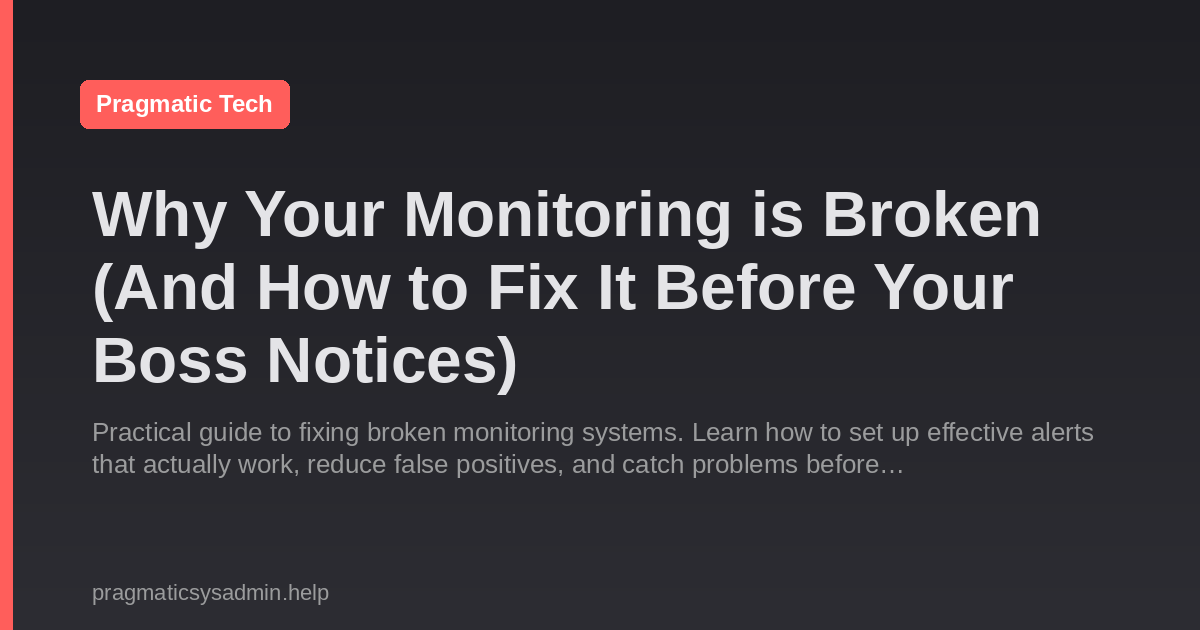
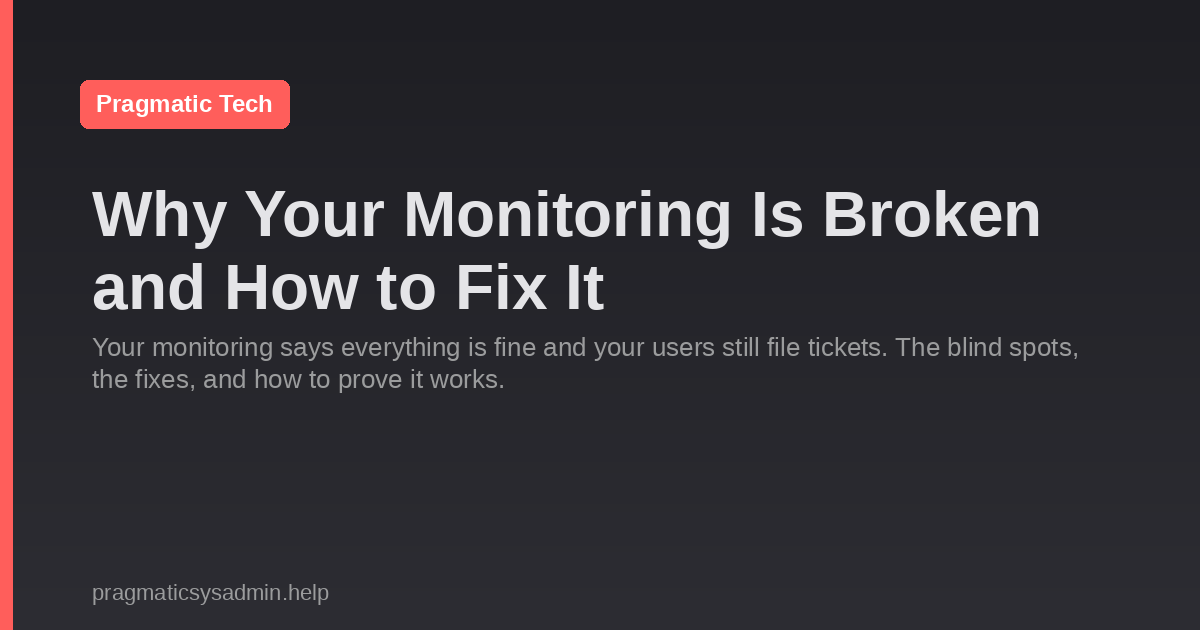
Rewrite 8 titles so the promise survives Google's cut, and shorten their descriptions
Google shows about 60 characters of a title. Thirty-nine of the seventy-
eight posts were longer than that once "| Pragmatic Tech" is appended,
and eight were longer than 100.

The pattern in the Search Console export is exact. The pages that click
put the promise in the first 60 characters:

  "Best Phones for Seniors in 2026 (Tested by Real Grandparents)"
  -> 111 impressions, 4 clicks

The pages that rank but earn nothing bury it in a parenthetical, which
is exactly the part that gets cut:

  "How to Set Up an iPhone for an Elderly Parent
   (The 30-Minute Setup That Prevents 90% of Support Calls)"
  -> 136 impressions, position 25.7, 0 clicks
     SERP shows: "How to Set Up an iPhone for an Elderly Parent (The 30-Mi..."

  "Is ChatGPT Reading Your Parents' Data?
   What AI Tools Actually Do With Their Chats"
  -> 79 impressions, position 16.2, 0 clicks

So the promise moves into the front, and the parenthetical goes. The
"30 minutes", the "5 minutes", the "100% in your browser" - those are the
words that make somebody click, and they are now visible.

Titles are now 49-59 characters, 68-77 with the site suffix. Descriptions
went from 169-251 characters down to 126-147, which is inside the ~160
character snippet window instead of being cut mid-sentence.

The eight rewritten, with impressions that rank but never click:

  setup-iphone-elderly-parent          136  0 clicks   102 -> 59
  is-chatgpt-reading-your-parents-data   79  0 clicks    81 -> 60
[…]

diff --git a/scripts/promote.py b/scripts/promote.py
@@ -62,7 +62,15 @@ EVERGREEN_RESHARE_DAYS = 60
 # The social channels stay at one post per run. That is deliberate: 42
 # queued posts dumped on a follower timeline at once is spam, and a
 # suspended account earns nothing at all.
-CHANNEL_CADENCE_HOURS = {"bluesky": 48, "mastodon": 48, "devto": 24}
+#
+# The Bluesky window is 24 hours, not 48. The daily cron does not fire at
+# 08:30 UTC - GitHub has been starting it between 16:00 and 17:30 for
+# three weeks - so a 48-hour window means a post waits one to three days
+# to be announced. It also means the run can land just before the window
+# closes and skip it: on 2026-11-21 the log said "cadence cooldown, 1.2h
+# remaining. Skipping." and the cloud cost post sat unannounced for three
+# days. One post a day is nothing to a timeline, so 24 hours it is.
+CHANNEL_CADENCE_HOURS = {"bluesky": 24, "mastodon": 48, "devto": 24}
 CHANNEL_MAX_PER_RUN = {"bluesky": 1, "mastodon": 1, "devto": 5}
 # dev.to's API allows 30 write requests per 30 seconds. Six seconds is
 # well inside that and still leaves the run readable in the log.

diff --git a/content/senior-tech/2026-06-27-setup-iphone-elderly-parent.md b/content/senior-tech/2026-06-27-setup-iphone-elderly-parent.md
@@ -1,5 +1,5 @@
 ---
-title: "How to Set Up an iPhone for an Elderly Parent (The 30-Minute Setup That Prevents 90% of Support Calls)"
+title: "How to Set Up an iPhone for an Elderly Parent in 30 Minutes"
 date: 2026-06-27T14:00:00.000Z
 categories:
   - Family Tech
@@ -12,7 +12,7 @@ tags:
   - senior tech help
   - aging parents technology
   - iOS setup guide
-description: "Step-by-step iPhone setup for elderly parents. Disable confusing features, make text bigger, configure emergency shortcuts, and pre-install the right apps. 30 minutes, prevents months of support calls."
+description: "Step-by-step iPhone setup for elderly parents: disable confusing features, make text bigger, set up emergency shortcuts and the right apps."
 author: "Pragmatic Sysadmin"
 aliases:
   - /posts/2026-06-27-setup-iphone-elderly-parent/

diff --git a/content/sysadmin/2026-10-06-password-strength-checker-browser-private.md b/content/sysadmin/2026-10-06-password-strength-checker-browser-private.md
@@ -1,8 +1,8 @@
 ---
-title: "I Built a Password Strength Checker That Runs 100% in Your Browser (and What It Taught Me About Passwords)"
+title: "A Password Strength Checker That Runs 100% in Your Browser"
 date: 2026-10-05
 draft: false
-description: "Password strength meters are everywhere and most of them are wrong — or worse, they phone your password home. I built one that runs entirely in the browser, then tested 200 real-world passwords against it. Here's what actually makes a password strong."
+description: "Most password meters are wrong, or phone your password home. This one runs entirely in your browser - then I tested 200 real passwords against it."
 tags: ["security", "passwords", "sysadmin", "tools", "privacy"]
 categories: ["System administration"]
 author: "Pragmatic Sysadmin"

diff --git a/content/sysadmin/2026-11-17-esp32-weather-station-3-2-lcd-what-broke.md b/content/sysadmin/2026-11-17-esp32-weather-station-3-2-lcd-what-broke.md
@@ -1,8 +1,8 @@
 ---
-title: "ESP32 Weather Station with 3.2\" LCD: What Broke and Why I'm Reverting to Raspberry Pi B"
+title: "ESP32 Weather Station: What Broke and Why I Switched to a Pi"
 date: 2026-11-17
 author: Pragmatic Sysadmin
-description: "I built an ESP32 + Waveshare 3.2\" ILI9341 weather and photo dashboard. Code compiles, Serial Monitor shows life, but the screen stays blank. Here's what I tried, what didn't work, and why I'm going back to a Raspberry Pi B."
+description: "An ESP32, a 3.2-inch ILI9341 LCD, and a blank screen. The wiring was right and the code compiled - so what actually went wrong?"
 tags: ["esp32", "ili9341", "waveshare", "lcd", "homelab", "weather-station", "honest-guide"]
 categories: ["System administration"]
 draft: false

diff --git a/content/sysadmin/2025-11-06-why-your-monitoring-is-broken-and-how-to-fix-it-before-your-boss-notices.md b/content/sysadmin/2025-11-06-why-your-monitoring-is-broken-and-how-to-fix-it-before-your-boss-notices.md
@@ -1,5 +1,5 @@
 ---
-title: "Why Your Monitoring is Broken (And How to Fix It Before Your Boss Notices)"
+title: "Why Your Monitoring Is Broken — and How to Fix It"
 date: 2025-11-06T17:41:00.000Z
 categories:
   - Monitoring
@@ -10,7 +10,7 @@ tags:
   - Alerting
   - Infrastructure
   - Automation
-description: "Practical guide to fixing broken monitoring systems. Learn how to set up effective alerts that actually work, reduce false positives, and catch problems before your users start complaining"
+description: "Your monitoring says everything is fine and your users still file tickets. The blind spots, the fixes, and how to prove it works."
 aliases:
   - /posts/2025-11-06-why-your-monitoring-is-broken-and-how-to-fix-it-before-your-boss-notices/
 

diff --git a/content/sysadmin/2026-10-30-give-old-tech-second-life-low-power-smart-display-esp32-epaper.md b/content/sysadmin/2026-10-30-give-old-tech-second-life-low-power-smart-display-esp32-epaper.md
@@ -1,8 +1,8 @@
 ---
-title: "Give Old Tech a Second Life: Building a Low-Power Smart Display with ESP32 and E-Paper"
+title: "Give Old Tech a Second Life with an ESP32 E-Paper Display"
 date: 2026-10-30
 author: "Pragmatic Sysadmin"
-description: "Turn a drawer of forgotten tech into a wall-mounted smart photo frame and weather dashboard. Three build paths compared, plus a real ESP32 + E-Ink prototype that runs for months on one 18650 cell."
+description: "Turn a drawer of forgotten tech into a wall-mounted photo frame and weather dashboard. Three build paths, and a real ESP32 + E-Ink prototype."
 draft: true
 no_publish: true
 tags: ["esp32", "e-paper", "diy", "homelab", "hardware", "electronics", "power-management"]

diff --git a/content/senior-tech/2026-07-27-privacy-first-ai-setup-for-seniors.md b/content/senior-tech/2026-07-27-privacy-first-ai-setup-for-seniors.md
@@ -1,8 +1,8 @@
 ---
-title: "Privacy-First AI Setup for Seniors: Apple Intelligence, Claude, and Local LLMs Compared"
+title: "Privacy-First AI for Seniors: Apple, Claude and Local LLMs"
 date: 2026-07-27
 draft: false
-description: "A pragmatic comparison of privacy-preserving AI options for elderly parents — Apple Intelligence, Claude, and locally-hosted Ollama — with a 10-minute setup for whichever fits their devices."
+description: "Apple Intelligence, Claude and locally-hosted Ollama compared for elderly parents - with a 10-minute setup for whichever fits their device."
 tags: ["ai", "privacy", "apple-intelligence", "claude", "ollama", "seniors"]
 categories: ["ai", "security"]
 ShowToc: true

diff --git a/content/senior-tech/2026-07-27-2fa-elderly-parent-email.md b/content/senior-tech/2026-07-27-2fa-elderly-parent-email.md
@@ -1,8 +1,8 @@
 ---
-title: "How to Turn On 2FA for Your Elderly Parent's Email (The Most Important 5-Minute Security Upgrade)"
+title: "Turn On 2FA for Your Elderly Parent's Email in 5 Minutes"
 date: 2026-07-27
 draft: false
-description: "Turn on two-factor authentication for your parent's email account in 5 minutes. Covers Gmail, Outlook, and iCloud — plus why email 2FA matters more than any other account."
+description: "Two-factor authentication for your parent's email, step by step. Gmail, Outlook and iCloud - and why email 2FA matters more than any other account."
 tags: ["2fa", "security", "seniors", "gmail", "outlook", "icloud", "yubikey"]
 categories: ["security"]
 ShowToc: true

diff --git a/content/senior-tech/2026-07-27-is-chatgpt-reading-your-parents-data.md b/content/senior-tech/2026-07-27-is-chatgpt-reading-your-parents-data.md
@@ -1,8 +1,8 @@
 ---
-title: "Is ChatGPT Reading Your Parents' Data? What AI Tools Actually Do With Their Chats"
+title: "Is ChatGPT Reading Your Parents' Data? What Actually Happens"
 date: 2026-07-27
 draft: false
-description: "A pragmatic explainer for adult children: what ChatGPT, Claude, and Gemini do with your parents' chat logs, how to turn off training, and what is actually safe to share."
+description: "What ChatGPT, Claude and Gemini do with your parents' chat logs, how to turn off training, and what is actually safe to share."
 tags: ["ai", "privacy", "chatgpt", "claude", "gemini", "seniors"]
 categories: ["ai", "security"]
 ShowToc: true
